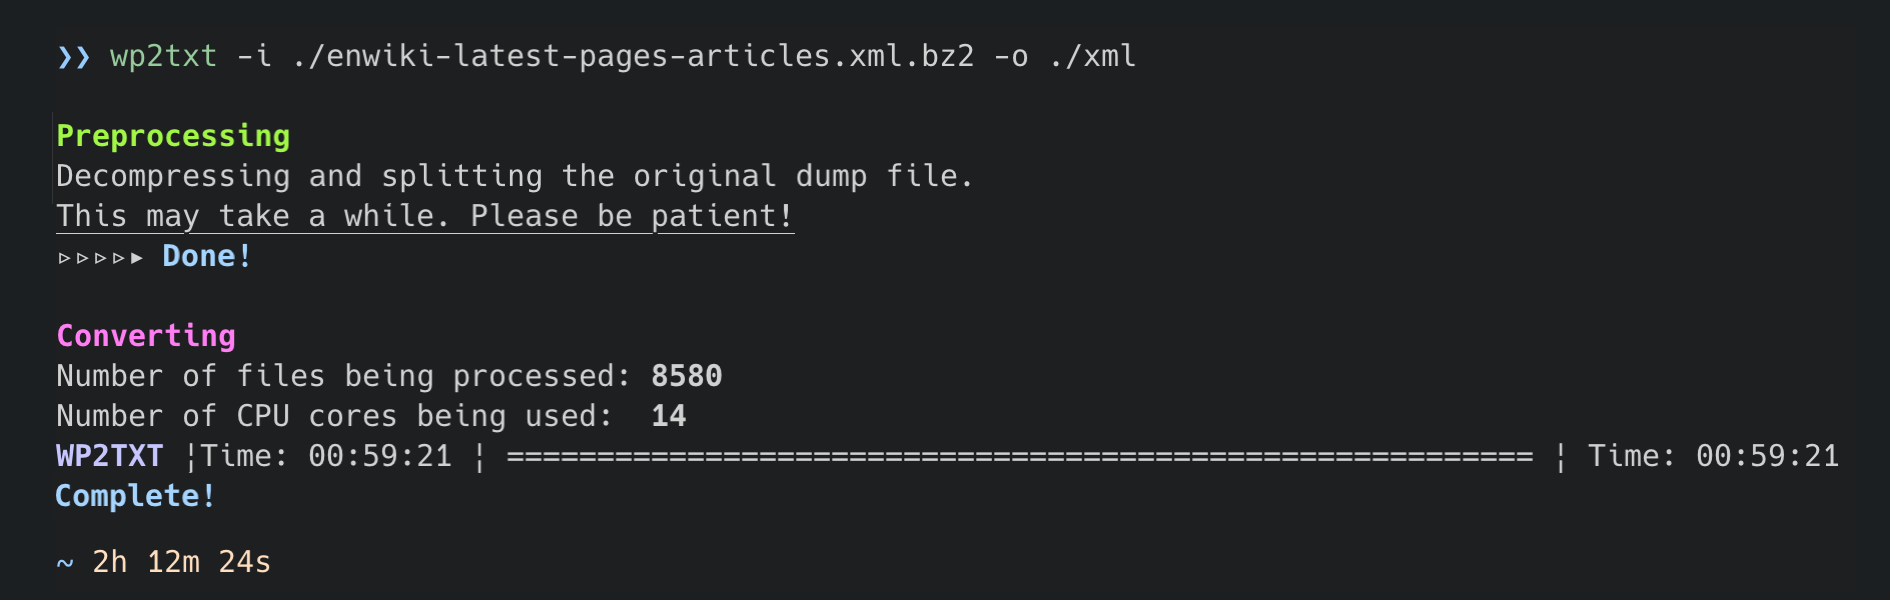
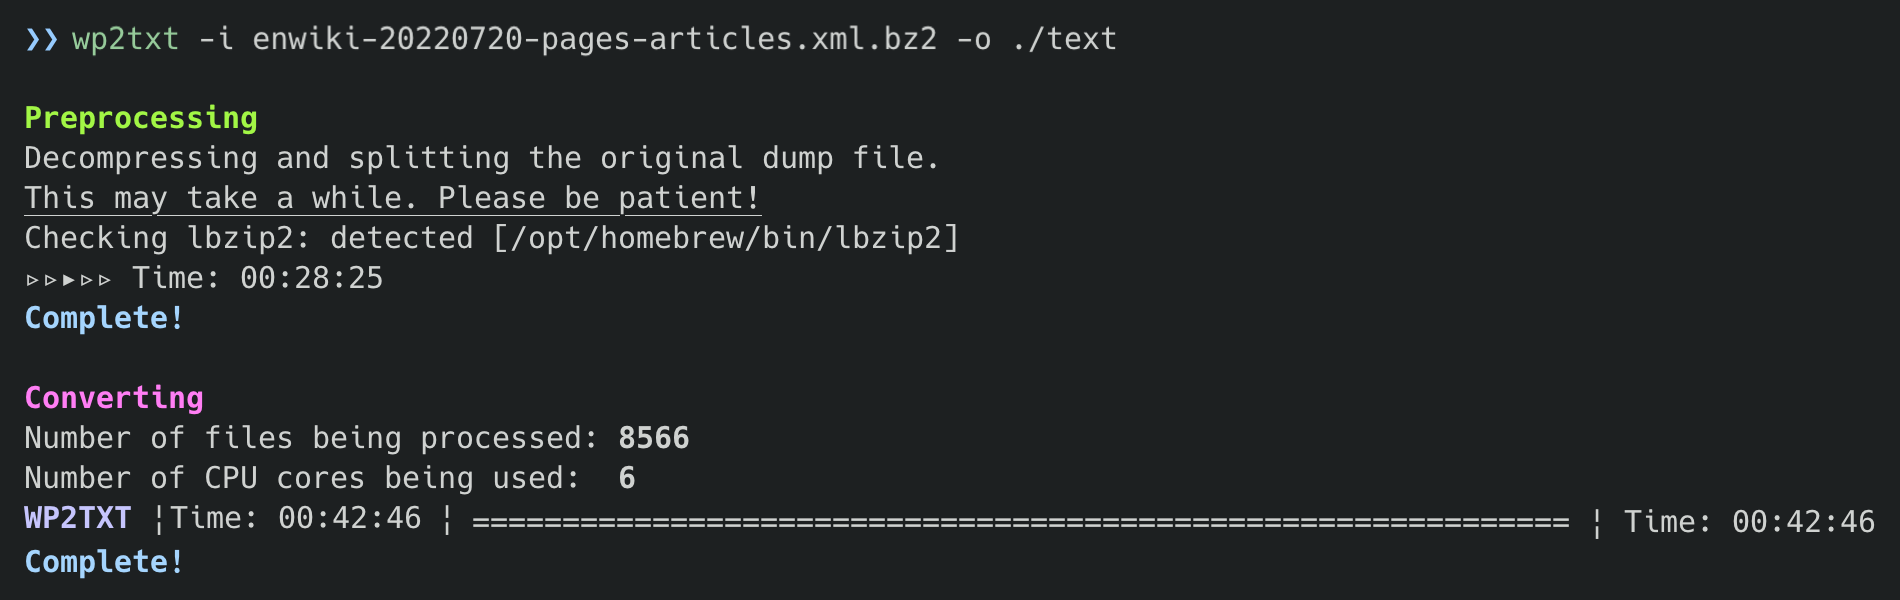
changed: auto detect lbzip2/pbsip2/bzip2

diff --git a/lib/wp2txt.rb b/lib/wp2txt.rb
@@ -7,26 +7,22 @@ require "nokogiri"
 require "wp2txt/article"
 require "wp2txt/utils"
 
-begin
-  require "bzip2-ruby"
-  NO_BZ2 = false  
-rescue LoadError
-  # in case bzip2-ruby gem is not available
-  NO_BZ2 = true
-end
-
 module Wp2txt
   class Splitter
     include Wp2txt
-    def initialize(input_file, output_dir = ".", tfile_size = 10)
+    def initialize(input_file, output_dir = ".", tfile_size = 10, bz2_gem = false)
       @fp = nil
       @input_file = input_file
       @output_dir = output_dir
       @tfile_size = tfile_size
-      prepare            
+      if bz2_gem
+        require "bzip2-ruby"
+      end
+      @bz2_gem = bz2_gem
+      prepare
     end
-    
-    def file_size(file) 
+
+    def file_size(file)
       origin = Time.now
       size = 0;  unit = 10485760; star = 0; before = Time.now.to_f
       error_count = 10
@@ -36,7 +32,7 @@ module Wp2txt
         rescue => e
           a = nil
         end
-        break unless a    
+        break unless a
 
         present = Time.now.to_f
         size += a.size
@@ -44,10 +40,27 @@ module Wp2txt
           star = 0 if star > 10
           star += 1
           before = present
-        end    
+        end
       end
       time_elapsed = Time.now - origin
       size
+    end
+
+    # check if a given command exists: return the path if it does, return false if not
+    def command_exist?(command)
+      basename = File.basename(command)
+      path = ""
+      print "Checking #{basename}: "
+      if open("| which #{command} 2>/dev/null"){ |f| path = f.gets.strip }
+        puts "detected [#{path}]"
+        return path.strip
+      elsif open("| which #{basename} 2>/dev/null"){ |f| path = f.gets.strip }
+        puts "detected [#{path}]"
+        return path.strip
+      else
+        puts "not found"
+        return false
+      end
     end
 
     # check the size of input file (bz2 or plain xml) when decompressed
@@ -58,31 +71,31 @@ module Wp2txt
         @output_dir = File.dirname(@input_file)
       end
 
-      # if input file is bz2 compressed, use bz2-ruby if available,
-      # use command line bzip2 program otherwise.
       if /.bz2$/ =~ @input_file
-        unless NO_BZ2
+        if @bz2_gem
           file = Bzip2::Reader.new File.open(@input_file, "r:UTF-8")
+        elsif RUBY_PLATFORM.index("win32")
+          file = IO.popen("bunzip2.exe -c #{@input_file}")
         else
-          if RUBY_PLATFORM.index("win32")
-            file = IO.popen("bunzip2.exe -c #{@input_file}")
-          else
-            file = IO.popen("bzip2 -c -d #{@input_file}") 
+          if bzpath = command_exist?("lbzip2") ||
+                      command_exist?("pbzip2") ||
+                      command_exist?("bzip2")
+            file = IO.popen("#{bzpath} -c -d #{@input_file}")
           end
-        end 
+        end
       else # meaning that it is a text file
         @infile_size = File.stat(@input_file).size
         file = open(@input_file)
       end
 
       #create basename of output file
-      @outfile_base = File.basename(@input_file, ".*") + "-"            
+      @outfile_base = File.basename(@input_file, ".*") + "-"
       @total_size = 0
       @file_index = 1
       outfilename = File.join(@output_dir, @outfile_base + @file_index.to_s)
       @outfiles = []
       @outfiles << outfilename
-      @fp = File.open(outfilename, "w")    
+      @fp = File.open(outfilename, "w")
       @file_pointer = file
       return true
     end
@@ -100,7 +113,7 @@ module Wp2txt
         # temp_buf is filled with text split by "\n"
         temp_buf = []
         ss = StringScanner.new(new_lines)
-        while ss.scan(/.*?\n/m)             
+        while ss.scan(/.*?\n/m)
           temp_buf << ss[0]
         end
         temp_buf << ss.rest unless ss.eos?
@@ -122,16 +135,16 @@ module Wp2txt
     end
 
     def get_newline
-      @buffer ||= [""]   
+      @buffer ||= [""]
       if @buffer.size == 1
         return nil unless fill_buffer
       end
       if @buffer.empty?
         return nil
-      else 
+      else
         new_line = @buffer.shift
         return new_line
-      end  
+      end
     end
 
     def split_file
@@ -145,7 +158,7 @@ module Wp2txt
         output_text << text
         end_flag = true if @total_size > (@tfile_size * 1024 * 1024)
         # never close the file until the end of the page even if end_flag is on
-        if end_flag && /<\/page/ =~ text 
+        if end_flag && /<\/page/ =~ text
           @fp.puts(output_text)
           output_text = ""
           @total_size = 0
@@ -159,15 +172,15 @@ module Wp2txt
         end
       end
       @fp.puts(output_text) if output_text != ""
-      @fp.close    
+      @fp.close
 
       if File.size(outfilename) == 0
-        File.delete(outfilename) 
+        File.delete(outfilename)
         @outfiles.delete(outfilename)
       end
 
-      rename(@outfiles, "xml")    
-    end 
+      rename(@outfiles, "xml")
+    end
   end
 
   class Runner
@@ -181,7 +194,7 @@ module Wp2txt
       @del_interfile = del_interfile
       prepare
     end
-    
+
     def prepare
       @infile_size = File.stat(@input_file).size
       file = open(@input_file)
@@ -203,7 +216,7 @@ module Wp2txt
         # temp_buf is filled with text split by "\n"
         temp_buf = []
         ss = StringScanner.new(new_lines)
-        while ss.scan(/.*?\n/m)             
+        while ss.scan(/.*?\n/m)
           temp_buf << ss[0]
         end
         temp_buf << ss.rest unless ss.eos?
@@ -225,16 +238,16 @@ module Wp2txt
     end
 
     def get_newline
-      @buffer ||= [""]   
+      @buffer ||= [""]
       if @buffer.size == 1
         return nil unless fill_buffer
       end
       if @buffer.empty?
         return nil
-      else 
+      else
         new_line = @buffer.shift
         return new_line
-      end  
+      end
     end
 
     def get_page
@@ -270,7 +283,7 @@ module Wp2txt
       pages = []
       data_empty = false
 
-      while !data_empty 
+      while !data_empty
         page = get_page
         if page
           pages << page

diff --git a/lib/wp2txt/utils.rb b/lib/wp2txt/utils.rb
@@ -476,8 +476,4 @@ module Wp2txt
     return str
   end
 
-  def decimal_format(i)
-    str = i.to_s.reverse
-    return str.scan(/.?.?./).join(',').reverse
-  end
 end

diff --git a/lib/wp2txt/version.rb b/lib/wp2txt/version.rb
@@ -1,3 +1,3 @@
 module Wp2txt
-  VERSION = "1.0.0"
+  VERSION = "1.0.1"
 end

diff --git a/README.md b/README.md
@@ -10,17 +10,19 @@ WP2TXT extracts text and category data from Wikipedia dump files (encoded in XML
 
 1. A new option `--category-only` has been added. When this option is enabled, only the title and category information of the article is extracted.
 2. A new option `--summary-only` has been added. If this option is enabled, only the title, category information, and opening paragraphs of the article will be extracted.
-3. Text conversion with the current version of WP2TXT is *several times faster* than the previous version due to parallel processing of multiple files (the rate of speedup depends on the CPU cores used for processing).
+3. Text conversion with the current version of WP2TXT is *more than 2x times faster* than the previous version due to parallel processing of multiple files (the rate of speedup depends on the CPU cores used for processing).
 
 ## Screenshot
 
 <img src='https://raw.githubusercontent.com/yohasebe/wp2txt/master/image/screenshot.png' width="700" />
 
-- WP2TXT 1.0.0
-- MacBook Pro (2019) 2.3GHz 8-Core Intel Core i9 (16 virtual cores)
-- enwiki-20220802-pages-articles.xml.bz2 (approx. 20GB)
+**Environment** 
 
-In the above environment, the process (decompression, splitting, extraction, and conversion) to obtain the plain text data of the English Wikipedia takes a little over two hours.
+- WP2TXT 1.0.1
+- MacBook Pro (2021 Apple M1 Pro) 
+- enwiki-20220720-pages-articles.xml.bz2 (19.98 GB)
+
+In the above environment, the process (decompression, splitting, extraction, and conversion) to obtain the plain text data of the English Wikipedia takes less than 1.5 hours.
 
 ## Features
 
@@ -30,11 +32,33 @@ In the above environment, the process (decompression, splitting, extraction, and
 - Allows extracting category information of the article
 - Allows extracting opening paragraphs of the article
 
+## Preparation
+
+### For MacOS / Linux/ WSL2
+
+WP2TXT requires that one of the following commands be installed on the system in order to decompress `bz2` files:
+
+- `lbzip2` (recommended)
+- `pbzip2`
+- `bzip2`
+
+In most cases, the `bzip2` command is pre-installed on the system. However, since `lbzip2` can use multiple CPU cores and is faster than `bzip2`, it is recommended that you install it additionally. WP2TXT will attempt to find the decompression command available on your system in the order listed above.
+
+If you are using MacOS with Homebrew installed, you can install `lbzip2` with the following command:
+
+    $ brew install lbzip2
+
+### For Windows
+
+Install [Bzip2 for Windows](http://gnuwin32.sourceforge.net/packages/bzip2.htm) and set the path so that WP2TXT can use the bunzip2.exe command. Alternatively, you can extract the Wikipedia dump file in your own way and process the resulting XML file with WP2TXT.
+
 ## Installation
+
+### WP2TXT command
 
     $ gem install wp2txt
 
-## Preparation
+## Wikipedia Dump File
 
 Download the latest Wikipedia dump file for the desired language at a URL such as
 
@@ -132,6 +156,7 @@ Command line options are as follows:
       -r, --ref                        Keep reference notations in the format [ref]...[/ref]
       -e, --redirect                   Show redirect destination
       -m, --marker, --no-marker        Show symbols prefixed to list items, definitions, etc. (Default: true)
+      -b, --bz2-gem                    Use Ruby's bzip2-ruby gem instead of a system command
       -v, --version                    Print version and exit
       -h, --help                       Show this message
 
